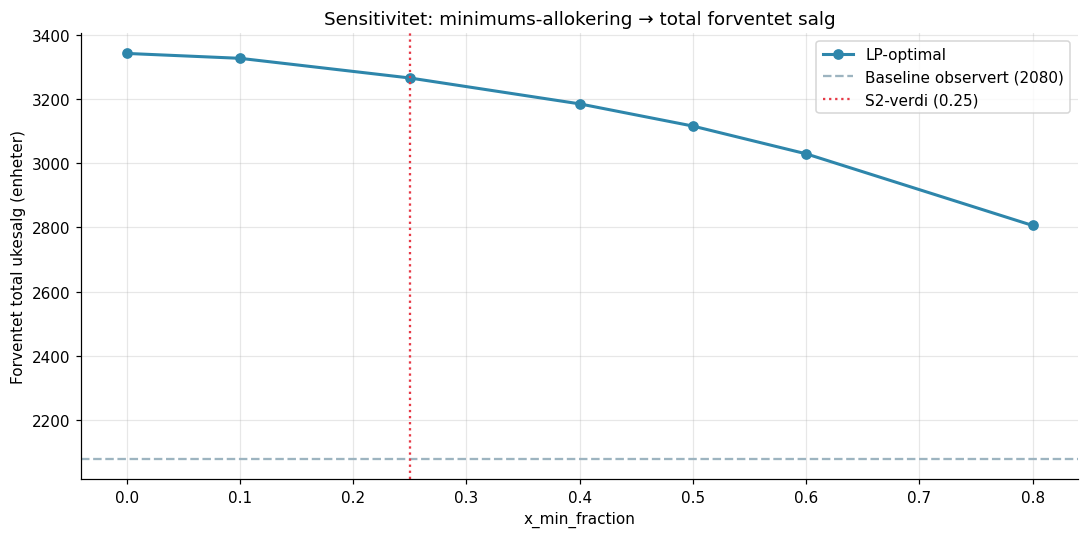
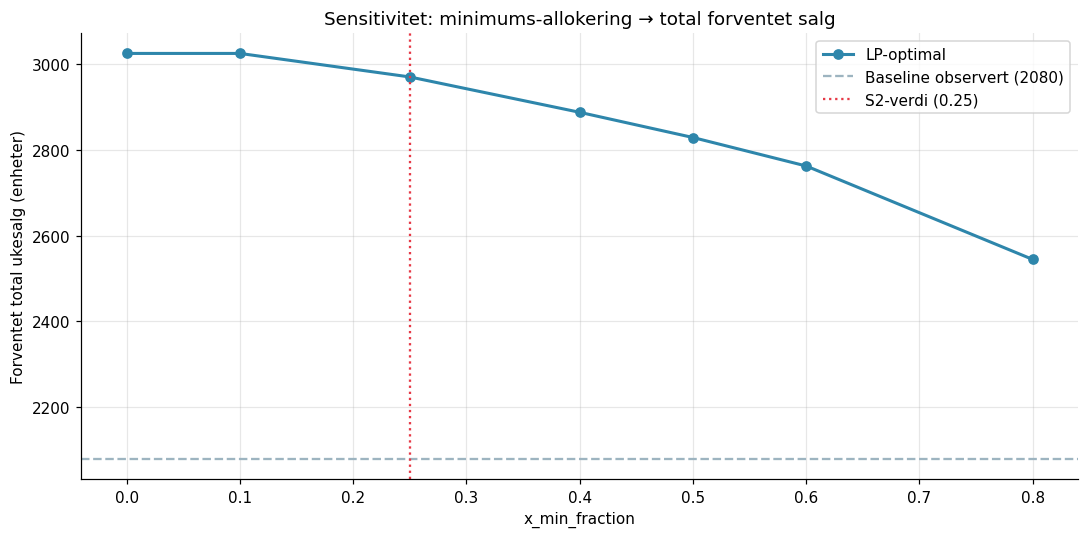
Sensitivitet: oppdatert 1D-analyser for overserve og x_min
- 04_sensitivitet.py: justert parameter-grid
- Oppdaterte CSV-resultater og figurer
- Sensitivitet-rapport reflekterer nye intervaller

diff --git a/006 analysis/aktiviteter/3_5_analyse_og_resultater/scripts/04_sensitivitet.py b/006 analysis/aktiviteter/3_5_analyse_og_resultater/scripts/04_sensitivitet.py
@@ -58,6 +58,7 @@ def aggregate(df: pd.DataFrame) -> pd.DataFrame:
     g = df.groupby("Produkt").agg(
         mean_sales=("Ant_solgt", "mean"),
         facings=("Kapasitet", "first"),
+        dybde=("Dybde", "first"),
     )
     g["productivity"] = g["mean_sales"] / g["facings"]
     g["utilization"] = g["mean_sales"] / g["facings"]
@@ -72,10 +73,11 @@ def compute_demand_cap(stats: pd.DataFrame, overserve_factor: float) -> pd.Serie
 
 
 def compute_x_min(stats: pd.DataFrame, x_min_fraction: float,
-                  x_min_floor: int = 1) -> pd.Series:
+                  x_min_facings: int = 3) -> pd.Series:
+    """x_min = max(x_min_fraction × c_i, x_min_facings × Dybde_i = 1 kolli per SKU)."""
     frac = (stats["facings"] * x_min_fraction).apply(math.floor)
-    floor = pd.Series(x_min_floor, index=stats.index)
-    return pd.concat([floor, frac], axis=1).max(axis=1).astype(int)
+    kolli = (stats["dybde"] * x_min_facings).astype(int)
+    return pd.concat([kolli, frac], axis=1).max(axis=1).astype(int)
 
 
 def solve(stats: pd.DataFrame, demand: pd.Series, x_min: pd.Series,

diff --git a/006 analysis/aktiviteter/3_5_analyse_og_resultater/resultat/sensitivitet-rapport.md b/006 analysis/aktiviteter/3_5_analyse_og_resultater/resultat/sensitivitet-rapport.md
@@ -8,12 +8,12 @@ Hvor mye høyere antas ukentlig etterspørsel å være enn observert salg for pr
 
 | overserve_factor | LP-salg | Gevinst | Gev % |
 |---:|---:|---:|---:|
-| 1.25 | 2438.4 | +358.2 | +17.2% |
-| 1.50 | 2746.9 | +666.7 | +32.1% |
-| 1.75 | 3025.6 | +945.4 | +45.5% |
-| 2.00 | 3265.1 | +1184.9 | +57.0% |
-| 2.50 | 3620.3 | +1540.1 | +74.0% |
-| 3.00 | 3905.9 | +1825.7 | +87.8% |
+| 1.25 | 2379.3 | +299.1 | +14.4% |
+| 1.50 | 2655.1 | +574.9 | +27.6% |
+| 1.75 | 2828.9 | +748.7 | +36.0% |
+| 2.00 | 2969.7 | +889.5 | +42.8% |
+| 2.50 | 3191.5 | +1111.3 | +53.4% |
+| 3.00 | 3400.9 | +1320.7 | +63.5% |
 
 ## Minimums-allokering — x_min_fraction
 
@@ -21,13 +21,13 @@ Hvor streng er sortimentsgarantien? overserve_factor holdes på 2.0 (S2).
 
 | x_min_fraction | LP-salg | Gevinst | Gev % |
 |---:|---:|---:|---:|
-| 0.00 | 3341.5 | +1261.3 | +60.6% |
-| 0.10 | 3326.3 | +1246.1 | +59.9% |
-| 0.25 | 3265.1 | +1184.9 | +57.0% |
-| 0.40 | 3184.5 | +1104.3 | +53.1% |
-| 0.50 | 3115.4 | +1035.2 | +49.8% |
-| 0.60 | 3029.0 | +948.8 | +45.6% |
-| 0.80 | 2806.0 | +725.8 | +34.9% |
+| 0.00 | 3024.5 | +944.3 | +45.4% |
+| 0.10 | 3024.5 | +944.3 | +45.4% |
+| 0.25 | 2969.7 | +889.5 | +42.8% |
+| 0.40 | 2887.3 | +807.1 | +38.8% |
+| 0.50 | 2828.6 | +748.4 | +36.0% |
+| 0.60 | 2762.2 | +682.0 | +32.8% |
+| 0.80 | 2544.5 | +464.3 | +22.3% |
 
 ## Tolkning
 
